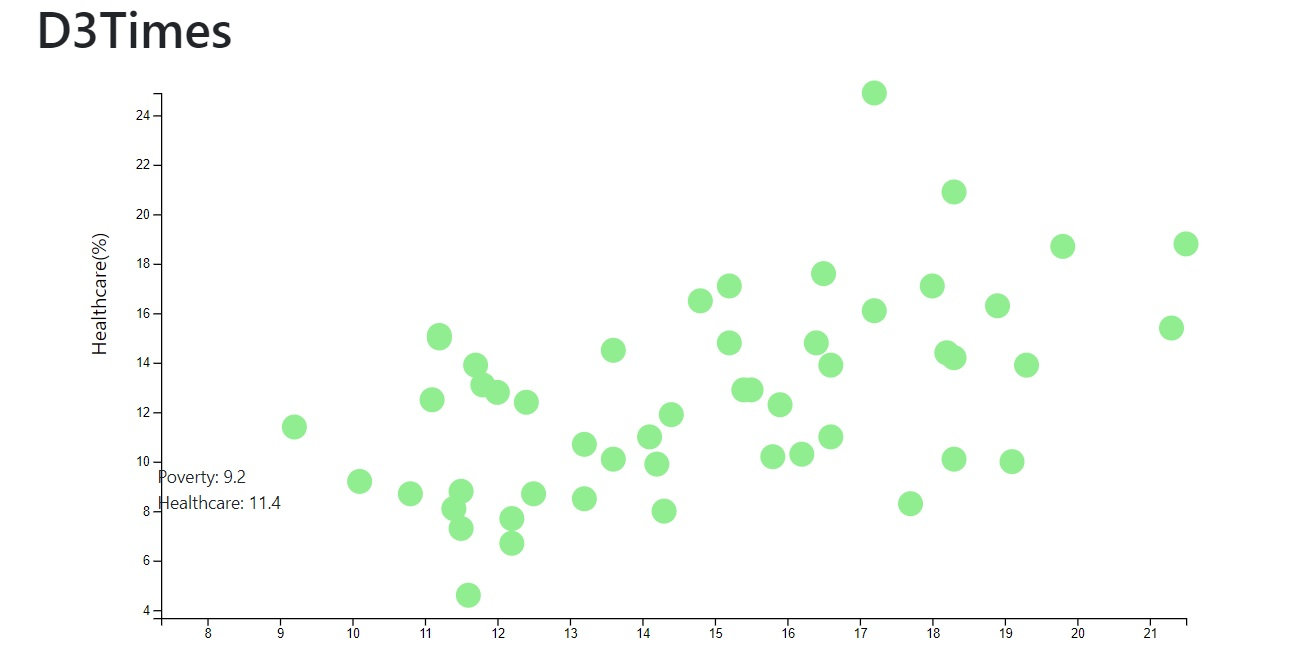
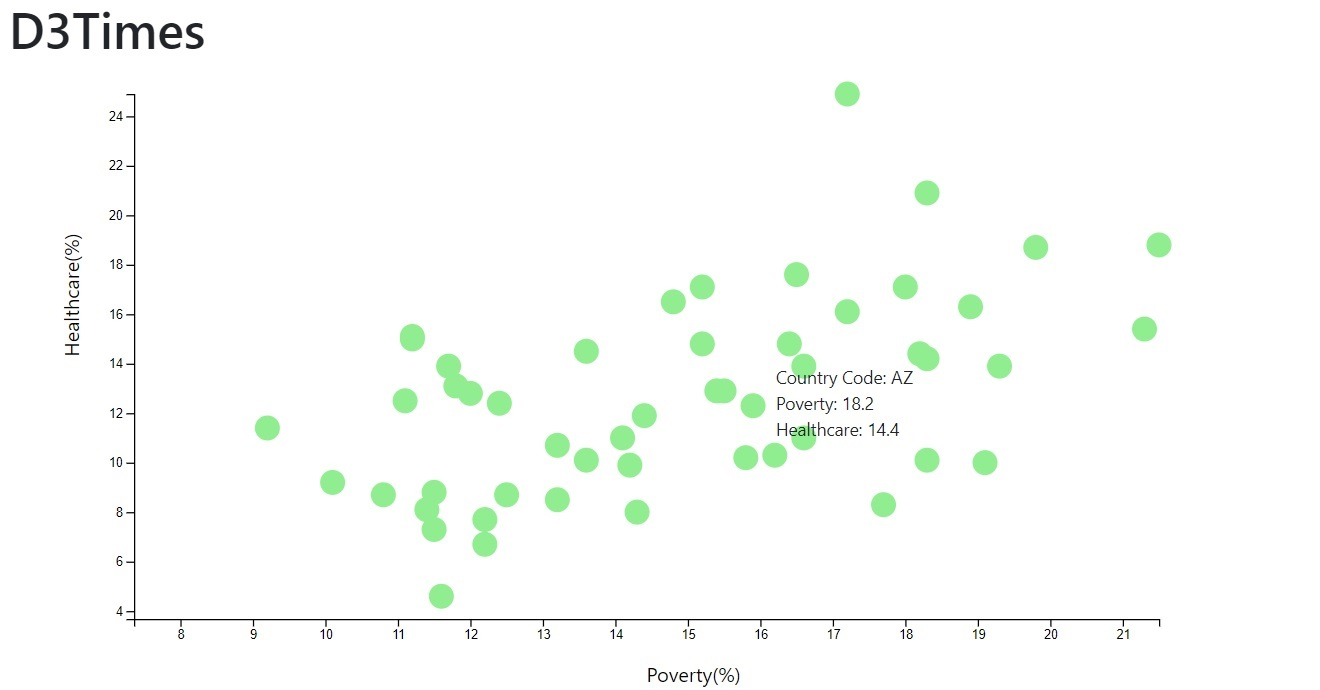
Latest commit

diff --git a/assets/js/app.js b/assets/js/app.js
@@ -27,7 +27,7 @@ d3.csv("assets/data/data.csv")
     data.forEach(function(data) {
       data.poverty = +data.poverty;
       data.healthcare = +data.healthcare;
-      data.abbr = +data.abbr;
+      data.abbr = data.abbr;
     });
 
 
@@ -60,15 +60,15 @@ var circlesGroup = chartGroup.selectAll("circle")
 .attr("cy", d => yLinearScale(d.healthcare))
 .attr("r", "10")
 .attr("fill", "lightgreen")
-//.append("text")
-//.append(function(data) { return data.abbr; })
+//.html("circle", function(data) { return `${data.abbr}`; })
+//.text("fill", "#69b3a2")
 .attr("opacity", "1");
 
 var toolTip = d3.tip()
   .attr("class", "tooltip")
   .offset([80, -60])
   .html(function(d) {
-    return (`<br>Poverty: ${d.poverty}<br>Healthcare: ${d.healthcare}`);
+    return (`Country Code:  ${d.abbr}<br>Poverty: ${d.poverty}<br>Healthcare: ${d.healthcare}`);
   });
 
  chartGroup.call(toolTip);
